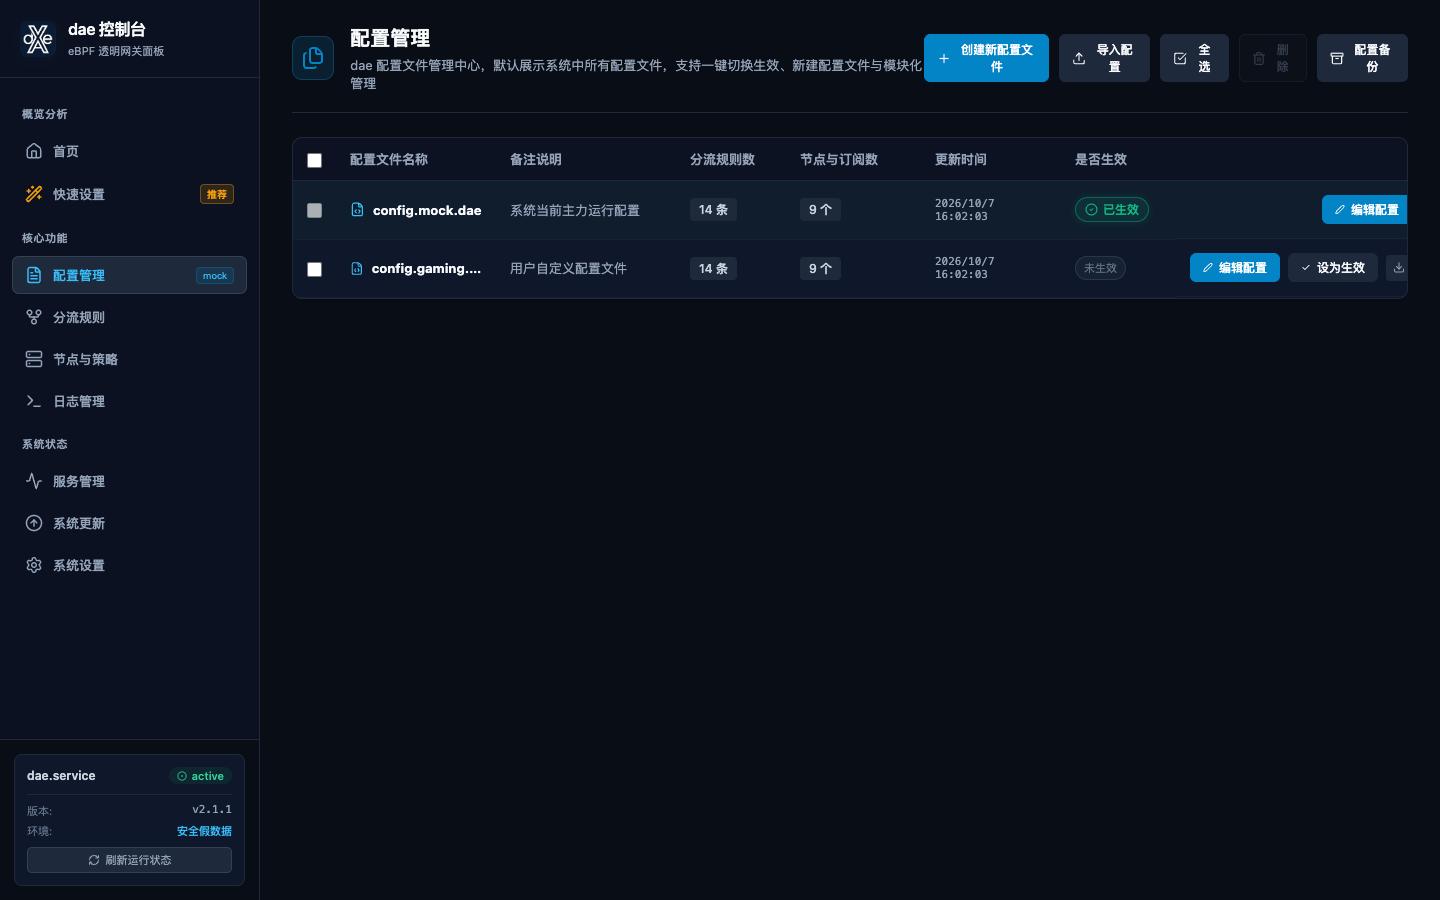
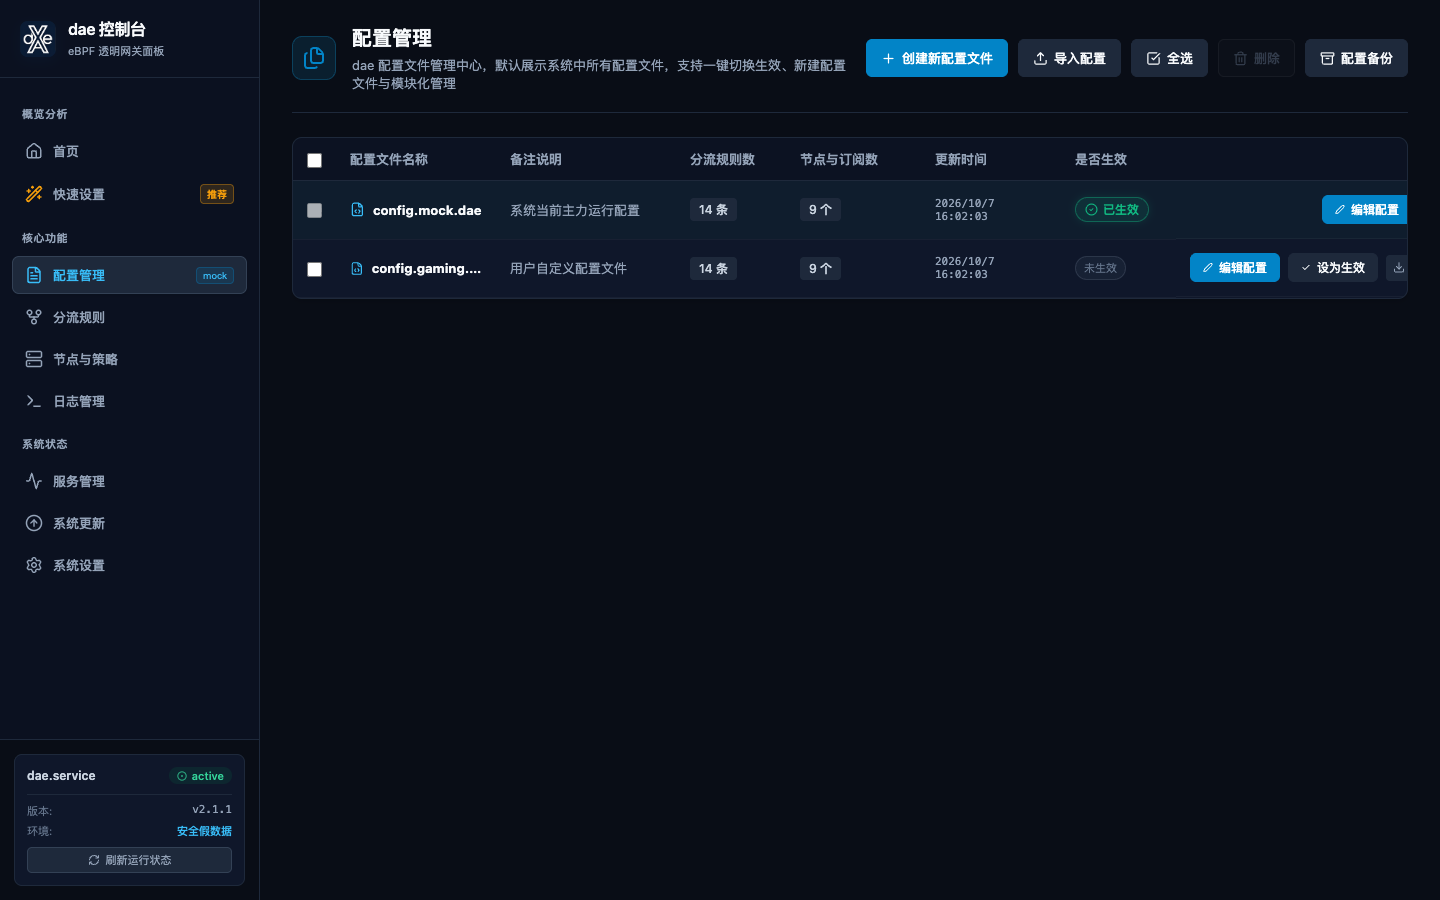
fix(config): prevent button text wrap on header actions and update screenshots

Changed region(s): [[0.2188, 0.0311, 0.9688, 0.1244]]

diff --git a/frontend/src/views/ConfigView.vue b/frontend/src/views/ConfigView.vue
@@ -5837,6 +5837,7 @@ onMounted(async () => {
   margin-bottom: 24px;
   padding-bottom: 20px;
   border-bottom: 1px solid var(--border-color, #1e293b);
+  gap: 20px;
 }
 
 .header-icon-wrap {
@@ -5849,11 +5850,14 @@ onMounted(async () => {
   border: 1px solid rgba(14, 165, 233, 0.25);
   border-radius: 10px;
   margin-right: 16px;
+  flex-shrink: 0;
 }
 
 .profiles-header .header-left {
   display: flex;
   align-items: center;
+  flex: 1;
+  min-width: 0;
 }
 
 .profiles-title {
@@ -6662,6 +6666,24 @@ onMounted(async () => {
   display: flex;
   align-items: center;
   gap: 10px;
+  flex-shrink: 0;
+}
+
+.header-actions .btn {
+  white-space: nowrap !important;
+  flex-shrink: 0;
+  display: inline-flex;
+  align-items: center;
+  gap: 6px;
+  padding: 8px 14px;
+  height: 38px;
+  font-size: 13px;
+  font-weight: 500;
+  line-height: 1;
+}
+
+.header-actions .btn span {
+  white-space: nowrap !important;
 }
 
 /* Status Badges */
